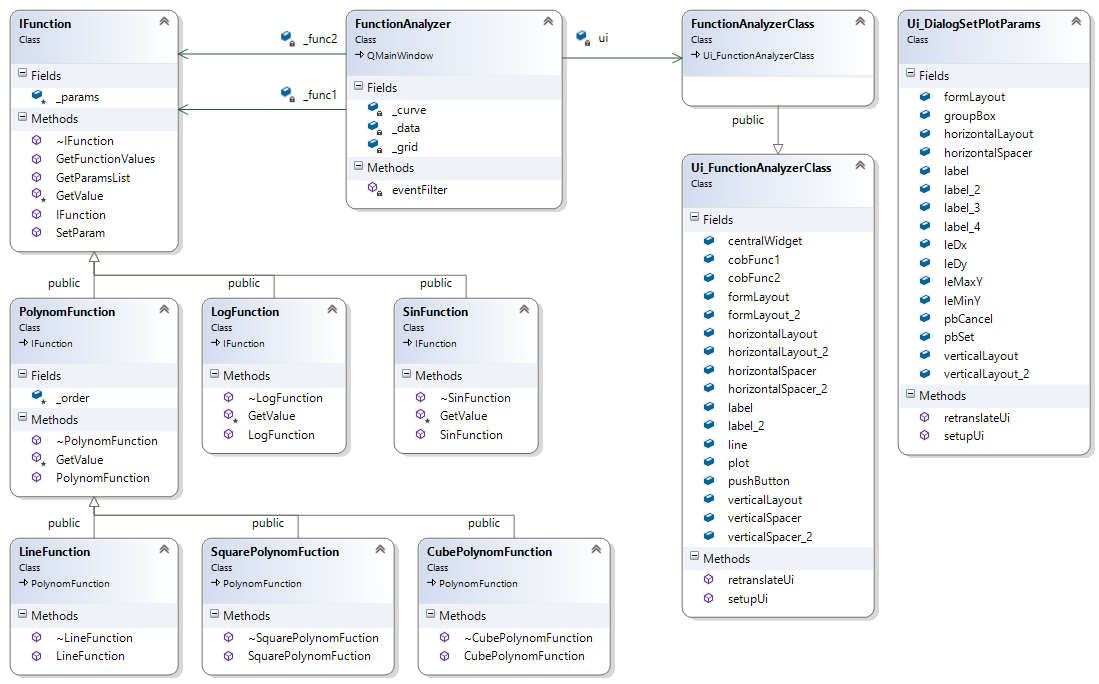
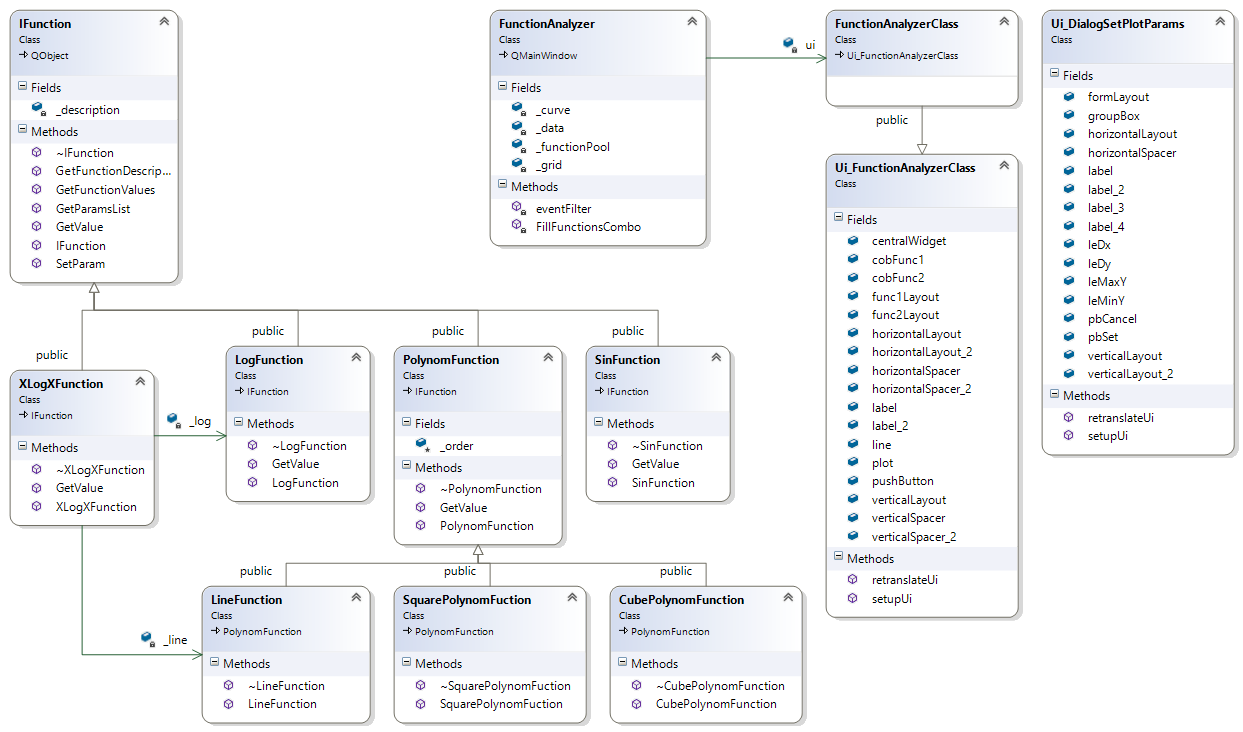
fixed function classes realisation added XLogXFunction class

Changed region(s): [[0.0, 0.0, 1.0, 1.0], [0.1237, 0.7675, 0.1547, 0.7982]]

diff --git a/IFunction.h b/IFunction.h
@@ -4,18 +4,21 @@
 #include <QList>
 #include <QString>
 #include <QMap>
+#include <QObject>
 
-class IFunction
+class IFunction: QObject
 {
+	Q_OBJECT
+
 protected:
 	QMap<QString, double> _params;
 	QString _description;
 
-	virtual double GetValue(double x) = 0;
 public:
 	IFunction(){};
 	~IFunction(){};
 	unsigned int GetFunctionValues(QVector<double>& array, double x1, double x2, double step);
+	virtual double GetValue(double x) = 0;
 
 	QList<QString> GetParamsList(){ return _params.keys(); };
 	void SetParam(QString name, double val){ _params[name] = val; };

diff --git a/FunctionAnalyzer.cpp b/FunctionAnalyzer.cpp
@@ -5,6 +5,7 @@
 #include "LineFunction.h"
 #include "SquarePolynomFuction.h"
 #include "CubePolynomFunction.h"
+#include "XLogXFunction.h"
 
 #include "DialogSetPlotParams.h"
 
@@ -40,6 +41,7 @@ FunctionAnalyzer::FunctionAnalyzer(QWidget *parent)
 	_functionPool.push_back(new CubePolynomFunction);
 	_functionPool.push_back(new LogFunction);
 	_functionPool.push_back(new SinFunction);
+	_functionPool.push_back(new XLogXFunction);
 
 	FillFunctionsCombo(ui.cobFunc1);
 	FillFunctionsCombo(ui.cobFunc2);

diff --git a/PolynomFunction.cpp b/PolynomFunction.cpp
@@ -1,12 +1,11 @@
 #include "PolynomFunction.h"
-#include <QApplication>
 
 PolynomFunction::PolynomFunction(unsigned int order)
 {
 	_order = order;
 	for (unsigned int i = 0; i <= _order; i++)
 		_params[QString("a%1").arg(i)] = 1;
-	_description = QApplication::tr("Polynomial function of order %1").arg(_order);
+	_description = tr("Polynomial function of order %1").arg(_order);
 }
 
 

diff --git a/XLogXFunction.cpp b/XLogXFunction.cpp
@@ -1,0 +1,21 @@
+#include "XLogXFunction.h"
+
+
+
+double XLogXFunction::GetValue(double x)
+{
+	return _line.GetValue(x)*_log.GetValue(x);
+}
+
+XLogXFunction::XLogXFunction()
+{
+	_description = tr("x*log(x) function");
+	_line.SetParam("a1", 1);
+	_line.SetParam("a0", 0);
+	_log.SetParam("a",1);
+}
+
+
+XLogXFunction::~XLogXFunction()
+{
+}

diff --git a/XLogXFunction.h b/XLogXFunction.h
@@ -1,0 +1,16 @@
+#pragma once
+#include "IFunction.h"
+#include "LineFunction.h"
+#include "LogFunction.h"
+#include "PolynomFunction.h"
+class XLogXFunction :
+	public IFunction
+{
+	LineFunction _line;
+	LogFunction _log;
+public:
+	virtual double GetValue(double x);
+	XLogXFunction();
+	~XLogXFunction();
+};
+

diff --git a/SinFunction.cpp b/SinFunction.cpp
@@ -1,12 +1,11 @@
 #include "SinFunction.h"
-#include "QApplication"
 
 SinFunction::SinFunction()
 {
 	_params["magn"] = 1;
 	_params["phase"] = 0;
 	_params["frequency"] = 1;
-	_description = QApplication::tr("Sine function");
+	_description = tr("Sine function");
 }
 
 

diff --git a/LogFunction.cpp b/LogFunction.cpp
@@ -1,11 +1,10 @@
 #include "LogFunction.h"
-#include <QApplication>
 
 
 LogFunction::LogFunction()
 {
 	_params["a"] = 1;
-	_description = QApplication::tr("Logarifmic function");
+	_description = tr("Logarifmic function");
 }
 
 

diff --git a/PolynomFunction.h b/PolynomFunction.h
@@ -5,8 +5,8 @@ class PolynomFunction :
 {
 protected:
 	unsigned int _order;
-	virtual double GetValue(double x);
 public:
+	virtual double GetValue(double x);
 	PolynomFunction(unsigned int order=0);
 	~PolynomFunction();
 };

diff --git a/SquarePolynomFuction.h b/SquarePolynomFuction.h
@@ -7,7 +7,7 @@ public:
 
 	SquarePolynomFuction() :PolynomFunction(2) 
 	{
-		_description = QApplication::tr("Square polynomial function");
+		_description = tr("Square polynomial function");
 	}
 
 	~SquarePolynomFuction() 

diff --git a/CubePolynomFunction.h b/CubePolynomFunction.h
@@ -7,7 +7,7 @@ public:
 
 	CubePolynomFunction() :PolynomFunction(3)
 	{
-		_description = QApplication::tr("Cube polynomial function");
+		_description = tr("Cube polynomial function");
 	}
 
 	~CubePolynomFunction()

diff --git a/LogFunction.h b/LogFunction.h
@@ -3,9 +3,8 @@
 class LogFunction :
 	public IFunction
 {
-protected:
-	virtual double GetValue(double x);
 public:
+	virtual double GetValue(double x);
 	LogFunction();
 	~LogFunction();
 };

diff --git a/SinFunction.h b/SinFunction.h
@@ -3,9 +3,8 @@
 class SinFunction :
 	public IFunction
 {
-protected:
-	virtual double GetValue(double x);
 public:
+	virtual double GetValue(double x);
 	SinFunction();
 	~SinFunction();
 };
